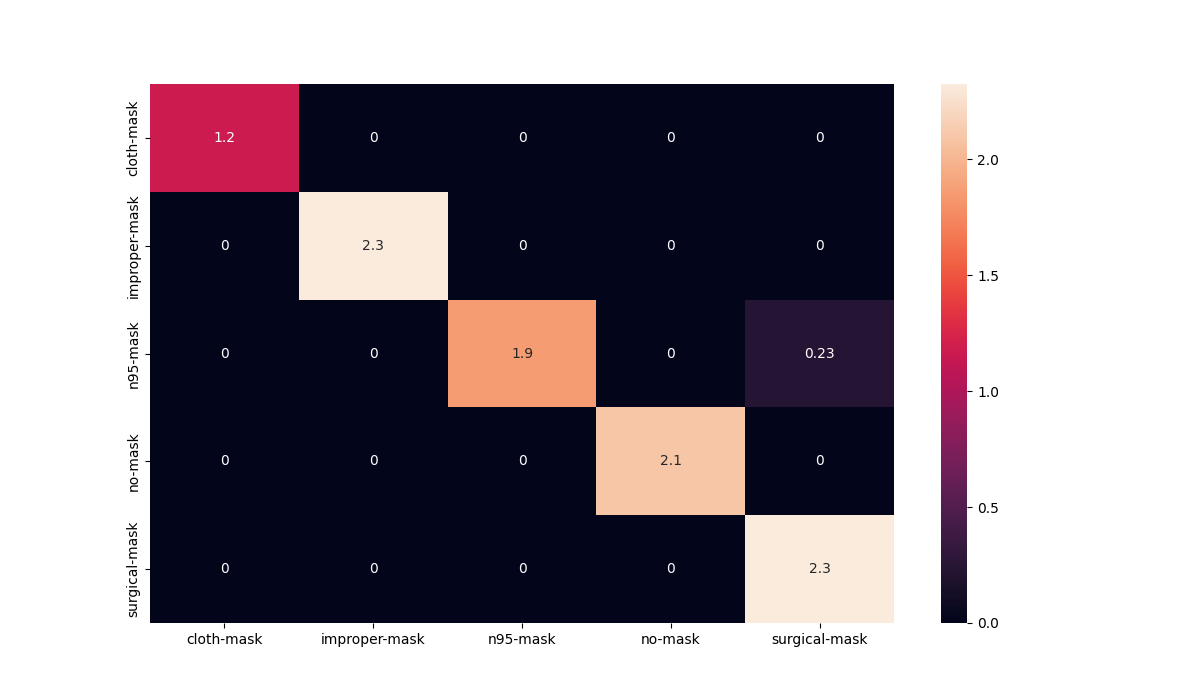
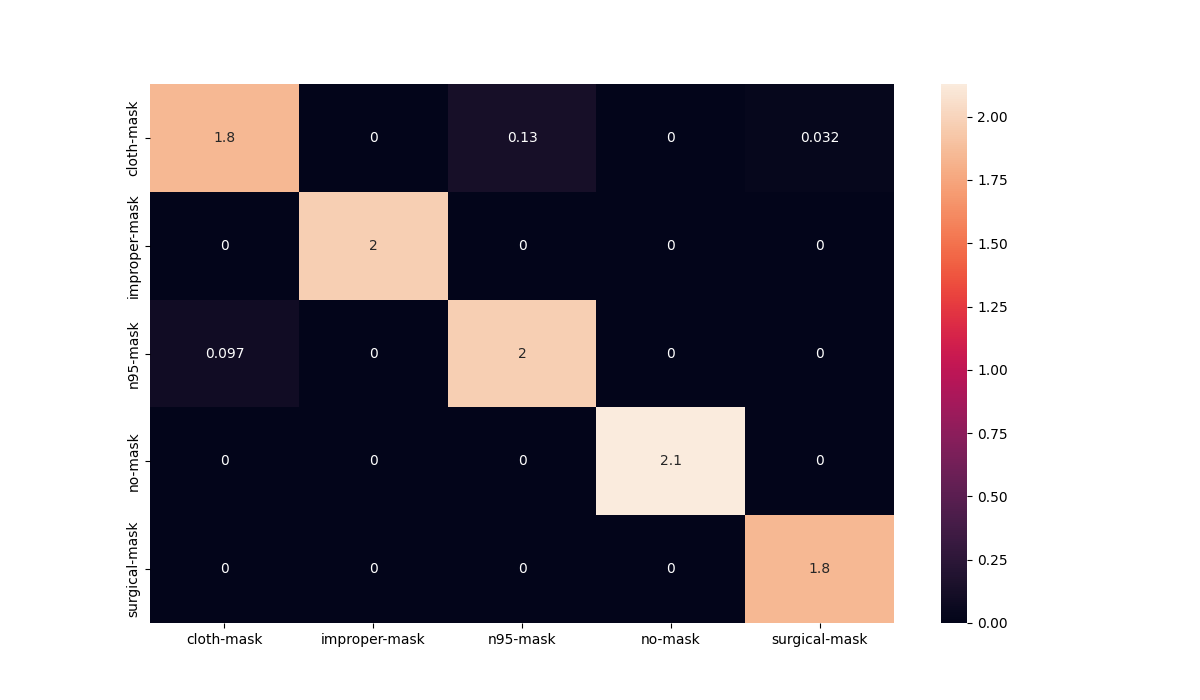
Clean up code

diff --git a/app/eval.py b/app/eval.py
@@ -4,29 +4,9 @@ from sklearn.metrics import classification_report
 from dataset import dataset, single_test_dl, test_dl, train_dl
 from util import construct_confusion_matrix, test_stats
 
-cnn_v1 = torch.load("./model/CNNV1.pb")
-cnn_v2 = torch.load("./model/CNNV2.pb")
 cnn_v3 = torch.load("./model/CNNV3.pb")
 cnn_v4 = torch.load("./model/CNNV3_kfold.pb")
 
-
-predicted_v1, labels_v1, correct_v1, total_v1 = test_stats(cnn_v1, test_dl)
-print(
-    f"Accuracy of the model on the {total_v1} (v1) test images: {round(100 * correct_v1 / total_v1, 2)} %"
-)
-print(
-    f"Classification Report for v1: \n {classification_report(labels_v1, predicted_v1, zero_division=1, target_names=dataset.classes)}"
-)
-construct_confusion_matrix(labels_v1, predicted_v1, "conf_matrix_v1")
-
-predicted_v2, labels_v2, correct_v2, total_v2 = test_stats(cnn_v2, test_dl)
-print(
-    f"Accuracy of the model on the {total_v2} (v2) test images: {round(100 * correct_v2 / total_v2, 2)} %"
-)
-print(
-    f"Classification Report for v2: \n {classification_report(labels_v2, predicted_v2, zero_division=1, target_names=dataset.classes)}"
-)
-construct_confusion_matrix(labels_v2, predicted_v2, "conf_matrix_v2")
 
 predicted_v3, labels_v3, correct_v3, total_v3 = test_stats(cnn_v3, test_dl)
 print(
@@ -37,7 +17,7 @@ print(
 )
 construct_confusion_matrix(labels_v3, predicted_v3, "conf_matrix_v3")
 
-predicted_v4, labels_v4, correct_v4, total_v4 = test_stats(cnn_v4, train_dl)
+predicted_v4, labels_v4, correct_v4, total_v4 = test_stats(cnn_v4, test_dl)
 print(
     f"Accuracy of the model on the {total_v4} test images: {round(100 * correct_v4 / total_v4, 2)} %"
 )

diff --git a/app/train.py b/app/train.py
@@ -5,7 +5,7 @@ from sklearn.metrics import classification_report
 from torch.utils.data import DataLoader, SubsetRandomSampler
 
 from cnn import CNNV3
-from dataset import dataset, train_dl
+from dataset import dataset
 from params import batch_size, device, learning_rate, num_classes, num_epochs, splits
 from util import train_epoch, validation_epoch
 
@@ -25,7 +25,7 @@ for fold, (train_idx, val_idx) in enumerate(splits.split(np.arange(len(dataset))
     train_loader = DataLoader(dataset, batch_size=batch_size, sampler=train_sampler)
     test_loader = DataLoader(dataset, batch_size=batch_size, sampler=test_sampler)
 
-    model = CNNV3(num_classes)
+    # model = CNNV3(num_classes)
     model.to(device)
 
     optimizer = torch.optim.SGD(
@@ -76,4 +76,4 @@ for fold, (train_idx, val_idx) in enumerate(splits.split(np.arange(len(dataset))
         f"Classification Report for fold {fold+1}: \n {classification_report(fold_labels, fold_predicted, zero_division=1, target_names=dataset.classes)}"
     )
 
-torch.save(model, "./model/CNNV3_kfold.pb")
+torch.save(model, "./model/CNNV3_kfold_unbias.pb")

diff --git a/app/params.py b/app/params.py
@@ -5,6 +5,6 @@ batch_size = 100
 num_classes = 5
 learning_rate = 0.005
 num_epochs = 10
-splits = KFold(n_splits=10, shuffle=True, random_state=0)
+splits = KFold(n_splits=10, shuffle=True)
 
 device = torch.device("cuda" if torch.cuda.is_available() else "cpu")
